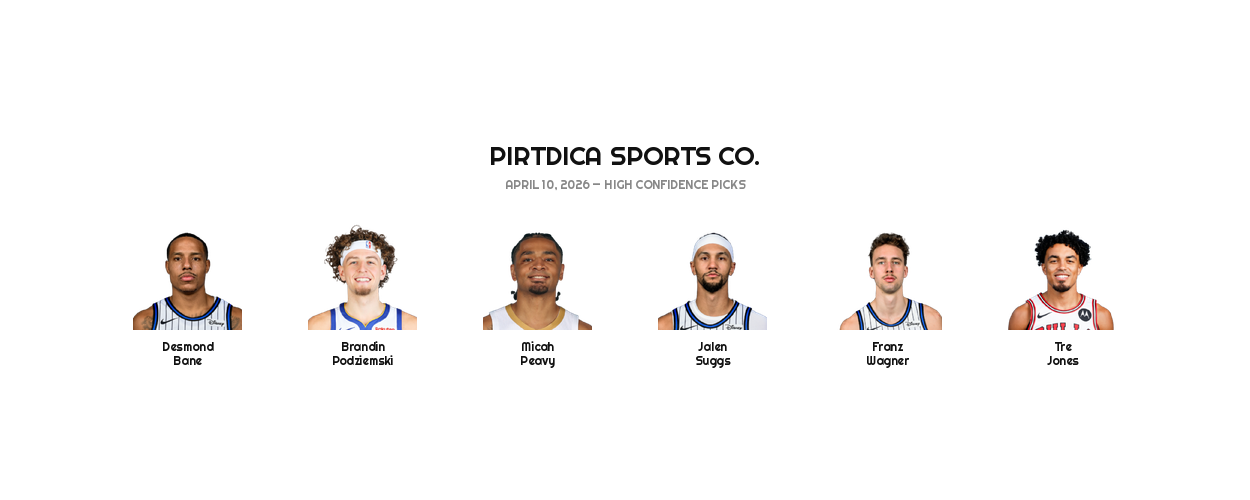
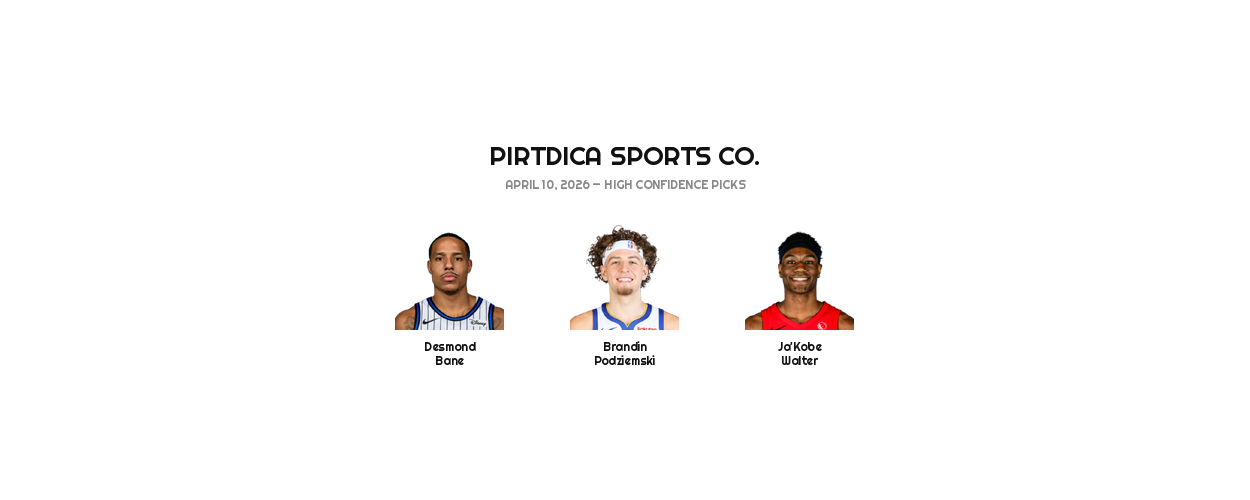
Daily pipeline update (2026-04-11 00:22)

diff --git a/run_pregame_refresh.py b/run_pregame_refresh.py
@@ -16,7 +16,7 @@ REFRESH_SCRIPTS = [
     ("manual_injuries.py sync", "Manual Injury Overrides"),
     ("detect_rotation_changes.py", "Rotation Detection"),
     ("scrape_game_odds.py", "Game Odds (Line Movements)"),
-    ("scrape_player_props.py", "Player Prop Odds (The Odds API)"),
+    ("scrape_player_props.py --force", "Player Prop Odds (The Odds API)"),
     ("build_player_archetypes.py", "Player Archetype Classification"),
     ("build_dva.py", "Defense vs Archetype (DVA)"),
     ("matchup_engine.py", "Matchup Interaction Layer"),

diff --git a/generate_article.py b/generate_article.py
@@ -1064,6 +1064,11 @@ def generate_article(target_date=None):
         print("ERROR: No 'confidence' column in prop_recommendations.csv")
         return False
 
+    pre_filter = len(props)
+    props = props[props['book_line'].notna() & (props['book_line'] > 0)].reset_index(drop=True)
+    if pre_filter != len(props):
+        print(f"  Filtered {pre_filter - len(props)} props without book lines ({len(props)} remaining)")
+
     games = set()
     for _, row in dfs_df.iterrows():
         t = row.get('team', '')

diff --git a/replit.md b/replit.md
@@ -40,6 +40,8 @@ The Stat-Specific Projection Engine generates projected values for each stat typ
 
 The Usage Redistribution Model v2 replaces flat injury boosts with hierarchical, archetype-weighted redistribution. It tracks vacated usage, MPG, and archetypes of OUT players. Cascade tiers activate based on total vacated usage, and archetype similarity determines absorption. Minutes escalation distributes vacated minutes to remaining starters. An Opportunity Index calculates compounded impact, and an "Opportunity Spike" flag indicates significant role increases combined with positive matchups. The model prevents double-counting by disabling separate minute ratio multipliers when Opportunity Index is active.
 
+Prop recommendations require an actual sportsbook book line from The Odds API — players without Odds API coverage are filtered out before article generation and Claude analysis. The Pre-Game Refresh at 6:20 PM ET force-refreshes props (`--force`) to capture lines posted later in the day (books typically post full props by 2-4 PM ET).
+
 HIGH Confidence Prop Classification requires ALL gates to pass: hit rate >= 58%, CV <= 0.30 (tightened from 0.45), last-5 average must clear the book line in the pick direction, at least one of DVA/DVP must actively support the pick direction (>0.5 magnitude — neutral matchups are now blocked), implied team total must support direction (OVER blocked if team implied < 105 for PTS/AST, UNDER blocked if > 115), and UNDER picks with usage boost > 3.0 are blocked. Confidence reasons are always populated. All 5 stat projection functions (PTS, REB, AST, STL, BLK) enforce a 20% inflation cap — no projection can exceed base × 1.20 regardless of stacked adjustments.
 
 Avatar & Identity Design Direction follows a "Strategic Minimalism meets Editorial Sports Design" style with specific design rules and an accent palette. Cosmetics communicate Skill, Status, or Story.
